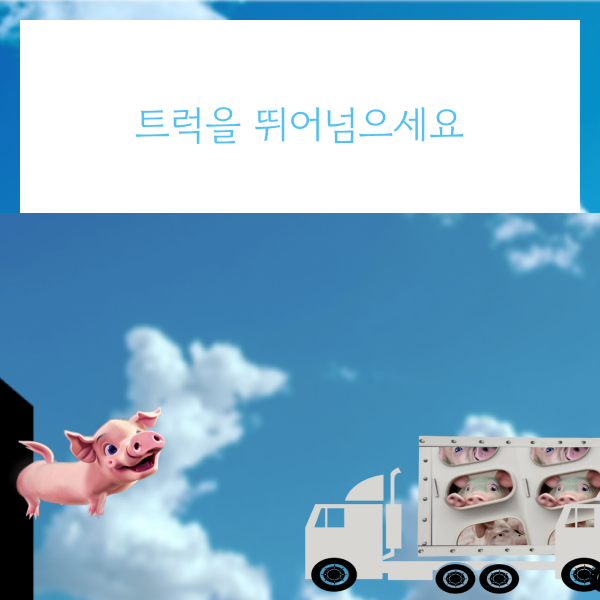
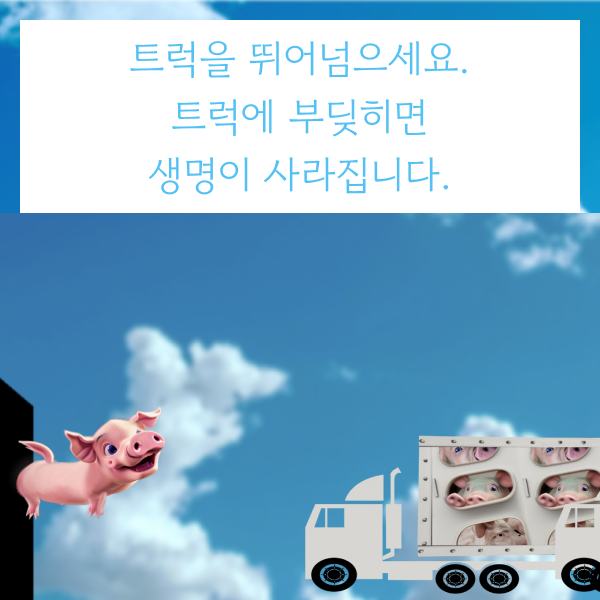
error changed

Changed region(s): [[0.21, 0.06, 0.78, 0.24], [0.45, 0.27, 0.75, 0.33], [0.24, 0.27, 0.42, 0.33]]

diff --git a/rules-2.html b/rules-2.html
@@ -37,13 +37,13 @@
                 <br>나의 모습을 확인하세요</p>
         </div>
         <div class="step">
-            <img class="step-info" src="static/how-2.png">
+            <img class="step-info" src="static/how-3.png">
             <p>화면 상단에 다섯개의 생명이
                 <br>모두 사라지면 윌버는 죽습니다</p>
         </div>
         <div class="step">
-            <img class="step-info" src="static/how-3.png">
-            <p>오른쪽에 다가오는 트럭을 뛰어넘으세요</p>
+            <img class="step-info" src="static/how-2.png">
+            <p>오른쪽에 다가오는 트럭을 뛰어넘으세요<br>트럭에 부딪히면 생명이 사라집니다.</p>
         </div>
         <div class="step">
             <img class="step-info" src="static/how-4.png">
@@ -51,8 +51,8 @@
         </div>
     </main>
     <div class="button-place">
-        <button class="skip-button" type="button" onclick="location.href='rules-2.html'">
-            Run Away with Wilbur!
+        <button class="skip-button" type="button" onclick="location.href='game.html'">
+            Start Game
         </button>
 
     </div>
